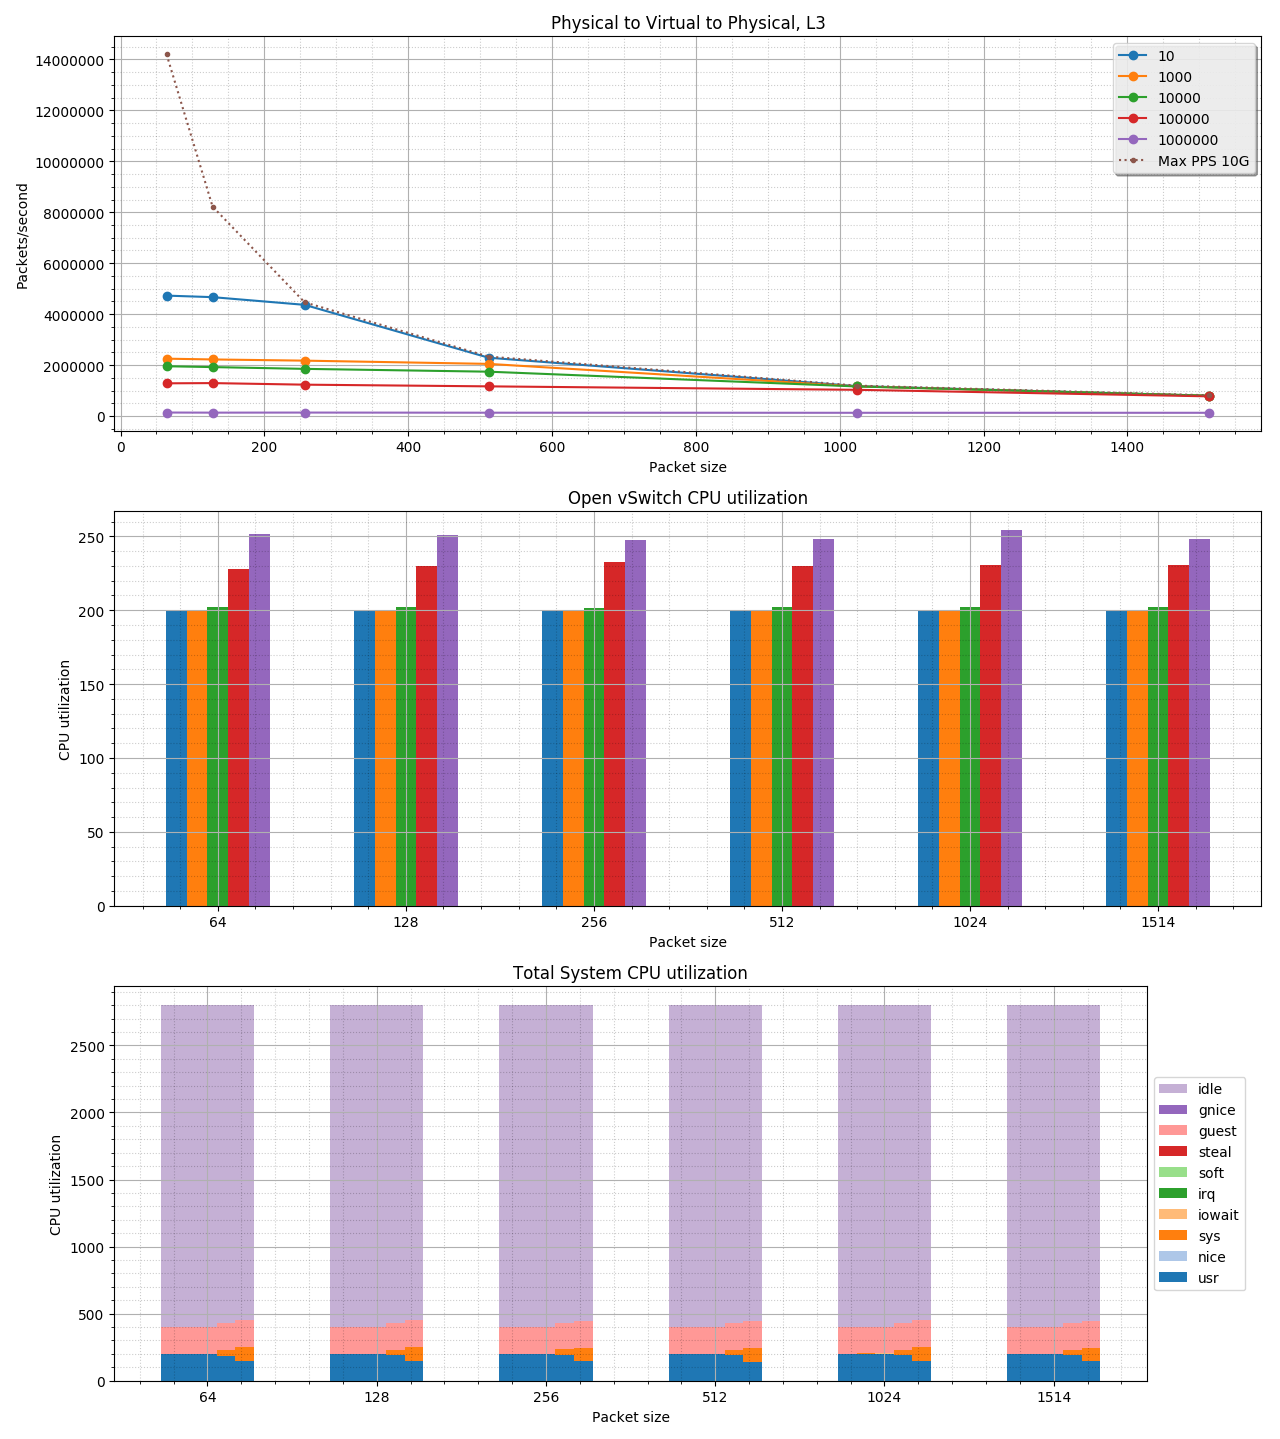
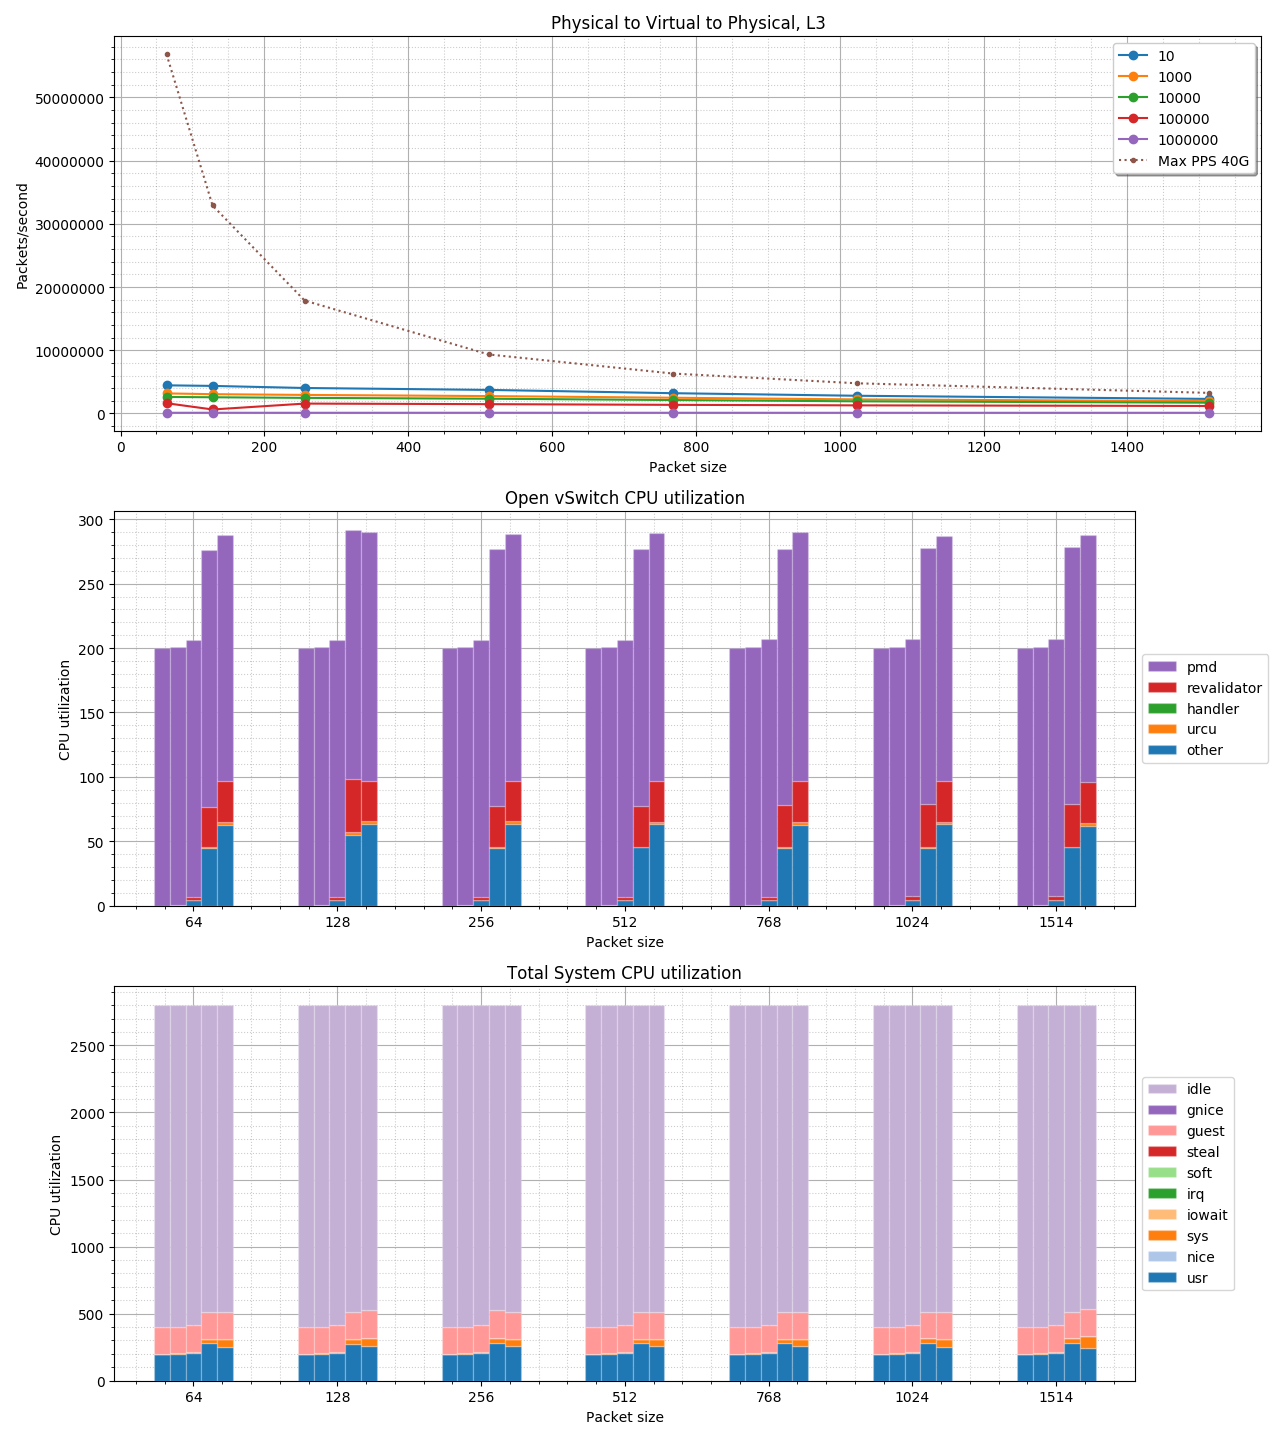
ovs_performance: Add more granular CPU stats to the overview graph

diff --git a/ovs_performance.py b/ovs_performance.py
@@ -2350,11 +2350,11 @@ def create_single_graph(x, y, x_label, y_label, title,
 
         pmd_plot.bar(x_cpu, pmd_y_values, bar_width,
                      color="#1f77b4", edgecolor="none",
-                     label="OVS PMD", align="edge")
+                     label="OVS PMD", align="edge", zorder=3)
 
         pmd_plot.bar(x_cpu + bar_width, guest_y_values, bar_width,
                      color="#ff7f0e", edgecolor="none",
-                     label="Guest", align="edge")
+                     label="Guest", align="edge", zorder=3)
 
         pmd_plot.set_title("Guest and Open vSwitch PMD CPU usage")
         pmd_plot.set_xlim(0 - (2 * bar_width),
@@ -2383,7 +2383,8 @@ def create_single_graph(x, y, x_label, y_label, title,
         for i in range(0, len(y_ovs_values) - 1):
             ovs_plot.bar(x_cpu, y_ovs_values[i], bar_width,
                          color=y_ovs_colors[i], edgecolor=y_ovs_colors[i],
-                         bottom=bottom, label=y_ovs_labels[i], align="center")
+                         bottom=bottom, label=y_ovs_labels[i], align="center",
+                         zorder=3)
             bottom = [a + b for a, b in zip(bottom, y_ovs_values[i])]
 
         ovs_plot.set_title("Open vSwitch CPU usage non PMD")
@@ -2413,7 +2414,8 @@ def create_single_graph(x, y, x_label, y_label, title,
         for i in range(0, len(y_cpu_values) - 2):
             sys_plot.bar(x_cpu, y_cpu_values[i], bar_width,
                          color=y_cpu_colors[i], edgecolor=y_cpu_colors[i],
-                         bottom=bottom, label=y_cpu_labels[i], align="center")
+                         bottom=bottom, label=y_cpu_labels[i], align="center",
+                         zorder=3)
             bottom = [a + b for a, b in zip(bottom, y_cpu_values[i])]
 
         sys_plot.set_title("System CPU usage (max {:.0f}%)".format(total_util))
@@ -2541,12 +2543,36 @@ def create_multiple_graph(x, y, x_label, y_label,
         bar_width = 0.11
         cpu_plot.set_title("Open vSwitch CPU utilization")
 
-        ovs_y_values = dict(list(zip(list(cpu_util.keys()),
-                                     [[] for i in range(len(cpu_util))])))
+        other_y_values = dict(list(zip(list(
+            cpu_util.keys()), [[] for i in range(len(cpu_util))])))
+        urcu_y_values = dict(list(zip(list(
+            cpu_util.keys()), [[] for i in range(len(cpu_util))])))
+        handler_y_values = dict(list(zip(list(
+            cpu_util.keys()), [[] for i in range(len(cpu_util))])))
+        revalidator_y_values = dict(list(zip(list(
+            cpu_util.keys()), [[] for i in range(len(cpu_util))])))
+        pmd_y_values = dict(list(zip(list(
+            cpu_util.keys()), [[] for i in range(len(cpu_util))])))
 
         for i in range(0, len(x)):
             for key in list(cpu_util.keys()):
-                ovs_y_values[key].append(cpu_util[key][i]['ovs_cpu'])
+                pmd_y_values[key].append(
+                    cpu_util[key][i]['ovs_cpu_pmd'])
+                revalidator_y_values[key].append(
+                    cpu_util[key][i]['ovs_cpu_revalidator'])
+                handler_y_values[key].append(
+                    cpu_util[key][i]['ovs_cpu_handler'])
+                urcu_y_values[key].append(
+                    cpu_util[key][i]['ovs_cpu_urcu'])
+                other_y_values[key].append(
+                    cpu_util[key][i]['ovs_cpu_other'])
+
+        y_ovs_values = [other_y_values, urcu_y_values, handler_y_values,
+                        revalidator_y_values, pmd_y_values]
+        y_ovs_colors = ['#1f77b4', '#ff7f0e', '#2ca02c', '#d62728',
+                        '#9467bd']
+        y_ovs_labels = ['other', 'urcu', 'handler',
+                        'revalidator', 'pmd']
 
         if len(cpu_util) % 2 != 0:
             align = 'center'
@@ -2554,10 +2580,17 @@ def create_multiple_graph(x, y, x_label, y_label,
             align = 'edge'
 
         for i, key in enumerate(natsorted(list(cpu_util.keys()))):
-            colors = plt.rcParams["axes.prop_cycle"].by_key()["color"]
             x_pos = (x_cpu - (len(cpu_util) / 2 * bar_width)) + (i * bar_width)
-            cpu_plot.bar(x_pos, ovs_y_values[key], bar_width, align=align,
-                         color=colors[i % len(colors)], edgecolor="none")
+
+            bottom = [0] * len(x)
+            for j in range(0, len(y_ovs_values)):
+
+                cpu_plot.bar(x_pos, y_ovs_values[j][key], bar_width,
+                             align=align, color=y_ovs_colors[j],
+                             label=y_ovs_labels[j] if i == 0 else "",
+                             bottom=bottom, zorder=3,
+                             linewidth=1, edgecolor=(1, 1, 1, 0.2))
+                bottom = [a + b for a, b in zip(bottom, y_ovs_values[j][key])]
 
         cpu_plot.set_xlim(0 - (len(cpu_util) * bar_width),
                           len(x_cpu) - 1 + (len(cpu_util) * bar_width))
@@ -2569,6 +2602,11 @@ def create_multiple_graph(x, y, x_label, y_label,
         cpu_plot.grid(b=True, which='minor', color='k', linestyle=':',
                       alpha=0.2)
         cpu_plot.minorticks_on()
+
+        handles, labels = cpu_plot.get_legend_handles_labels()
+        cpu_plot.legend(list(reversed(handles)),
+                        list(reversed(labels)),
+                        loc='center left', bbox_to_anchor=(1, 0.5))
 
         #
         # System CPU utilization
@@ -2627,7 +2665,8 @@ def create_multiple_graph(x, y, x_label, y_label,
                 sys_plot.bar(x_pos, y_cpu_values[j][key], bar_width,
                              align=align, color=y_cpu_colors[j],
                              label=y_cpu_labels[j] if i == 0 else "",
-                             bottom=bottom)
+                             bottom=bottom, zorder=3,
+                             linewidth=1, edgecolor=(1, 1, 1, 0.2))
                 bottom = [a + b for a, b in zip(bottom, y_cpu_values[j][key])]
 
         sys_plot.set_xlim(0 - (len(cpu_util) * bar_width),
@@ -2656,8 +2695,10 @@ def create_multiple_graph(x, y, x_label, y_label,
     #
     fig.tight_layout()
     if cpu_util is not None:
+        box = cpu_plot.get_position()
+        cpu_plot.set_position([box.x0, box.y0, box.width * 0.89, box.height])
         box = sys_plot.get_position()
-        sys_plot.set_position([box.x0, box.y0, box.width * 0.90, box.height])
+        sys_plot.set_position([box.x0, box.y0, box.width * 0.89, box.height])
 
     #
     # Write picture

diff --git a/README.md b/README.md
@@ -920,8 +920,8 @@ will show all flow sizes in one graph with the addition of the theoretical
 maximum, the ___test\_p2v2p\_all\_l3.png___ does not show the theoretical
 maximum.
 
-Below you will find the content of the ___test\_p2v2p\_10000\_l3.png___ and
-___test\_p2v2p\_all\_l3\_ref.png___ as an example.
+Below you will find the content of a ___test\_p2v2p\_10000\_l3.png___ and
+___test\_p2v2p\_all\_l3\_ref.png___ taken with an XL710 network card as an example.
 
 #### ___test\_p2v2p\_10000\_l3.png___:
 ![pvp1000](images/test_p2v2p_10000_l3.png)
